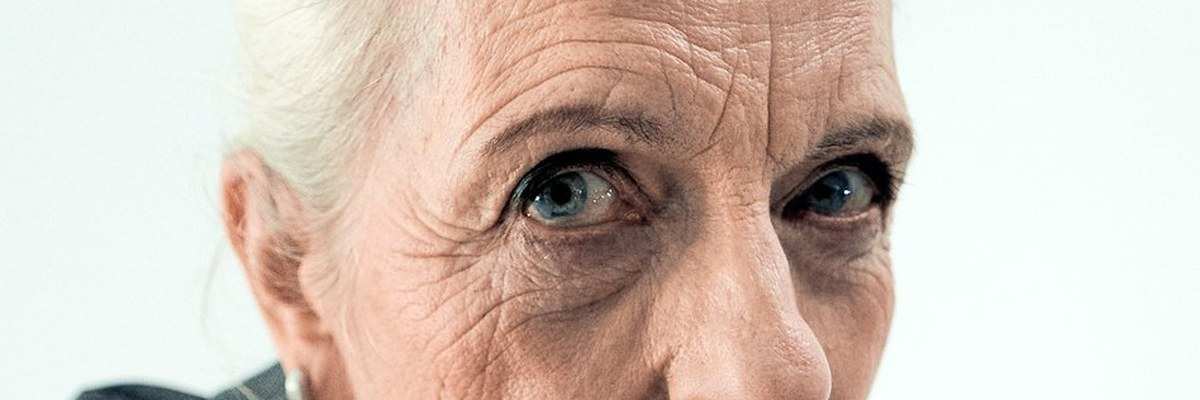
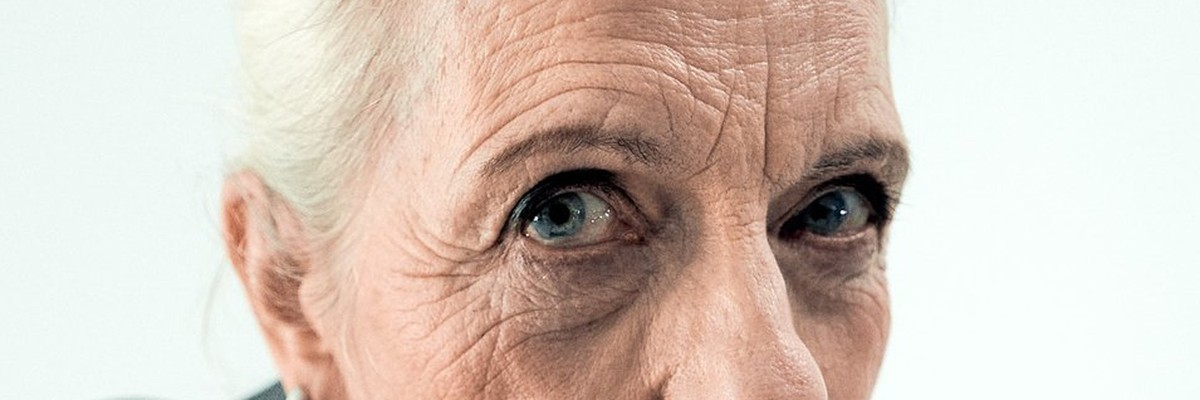
Bänder: #niewiederleise mit Trailer, Copenhagen orange mit Schal-Loop in der Mitte; Augen mittig (Porträt Köln, Slavko, Parzhuber); Arbeiten-Leiste gleich breite Felder
Claude-Session: https://claude.ai/code/session_017N8sbcAc2xkpeYShgx4Y84

diff --git a/tools/arbeiten_content.py b/tools/arbeiten_content.py
@@ -72,7 +72,7 @@ p('bundesliga','Bundesliga','Sport · DFL','Sport · DFL','2023 bis 2025','DFL',
 # Reihenfolge so, dass nie zwei ähnliche Farben nebeneinander stehen.
 BAND=[('rock-fairyland','#6a1a44',[2,6,8]),('trish-reflections-of-identity','#0a8389',[6]),('scholl-iconic','#d0592b',['scholl-3','scholl-4','scholl-1']),
  ('pnts','#2f5878',[3,4,5]),('phiala','#ceb57d',[6,8,9]),('the-wants','#562b38',[4]),('peek-cloppenburg-x-ellesse','#99b4bc',[1]),
- ('ozean-der-stille','#5a1f1b',[11]),('monano-schmuck','#9eccd4',[5]),('niewiederleise','#6f6f41',[4,5,8]),('copenhagen-studios','#f09a9e',[5,4]),
+ ('ozean-der-stille','#5a1f1b',[11]),('monano-schmuck','#9eccd4',[5]),('niewiederleise','#6f6f41',['vid:niewiederleise-kampagne']),('copenhagen-studios','#e8603e',[11,'vid:cph-schal-loop',12]),
  ('silent-escape','#2e4f56',[1,2,5]),('bundesliga','#d9b42c',[23]),('appelrathcuepper','#0d3a78',[2]),('marie-dahmen','#9a5530',[5]),
  ('synergy','#2f6f58',[1,2,3]),('new-icons-club-magazine','#c8182e',['new-icons-club-magazine-5','new-icons-club-magazine-2-6','new-icons-club-magazine-2-9'])]
 for i,x in enumerate(P): x['seed']=[0,1,2,3,4,5,6,7,8,9,10,12,13,14,15,16,17][i]  # alte Position, damit die Bögen gleich bleiben
@@ -81,7 +81,7 @@ assert len(BAND)==len(P), (len(BAND),len(P))
 P=[]
 for slug,col,ims in BAND:
     x=byslug[slug]; x['band']=col
-    x['bandImgs']=[('w-'+i if isinstance(i,str) else f'w-{slug}-{i}') for i in ims]
+    x['bandImgs']=[(i if isinstance(i,str) and i.startswith('vid:') else 'w-'+i if isinstance(i,str) else f'w-{slug}-{i}') for i in ims]
     P.append(x)
 json.dump(P,open(os.path.join(H,'arbeiten_content.json'),'w'),ensure_ascii=False,indent=1)
 print(len(P))
